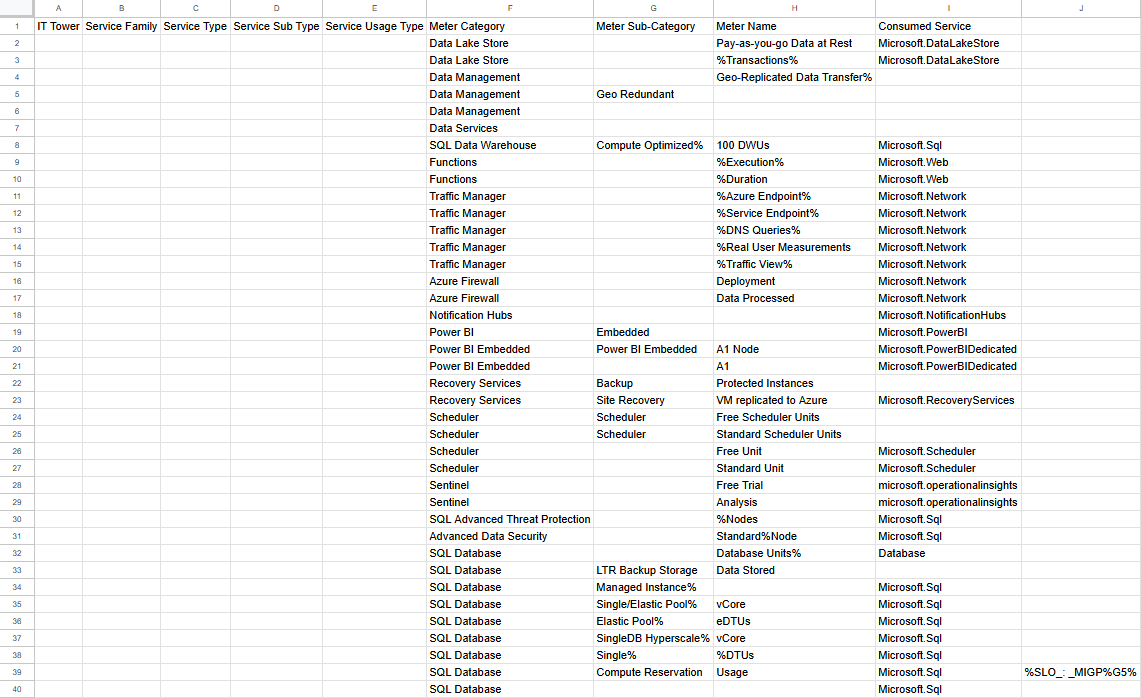
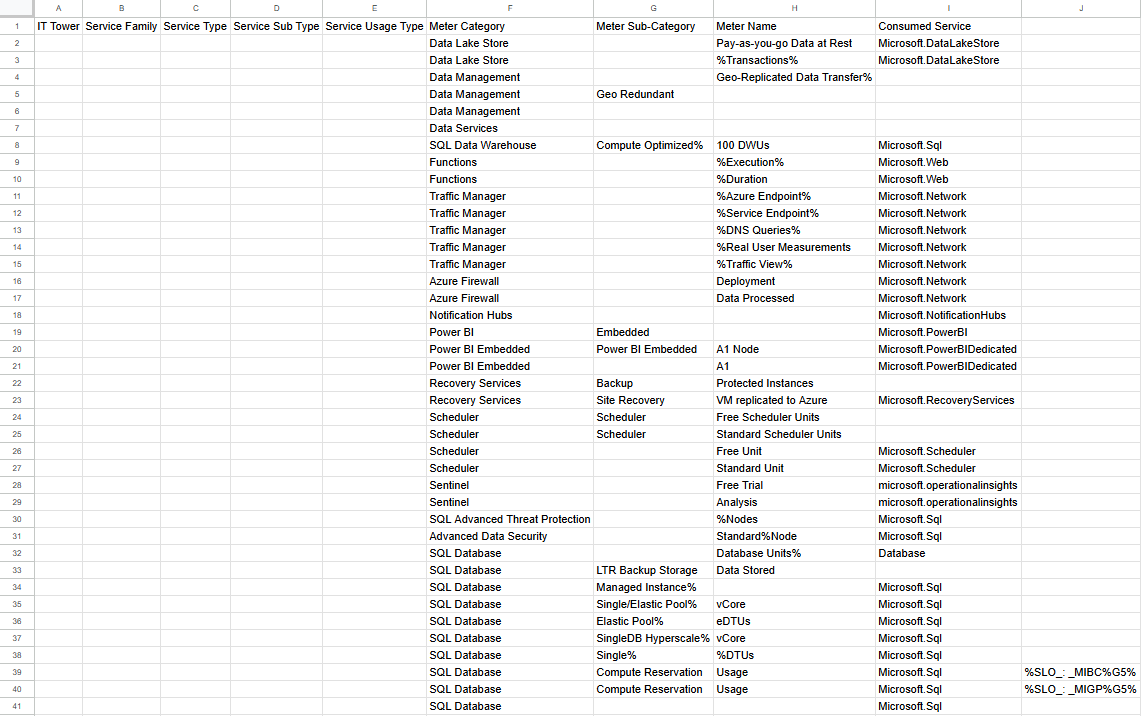
azure lab

diff --git a/reports/labazure/reportazure.md b/reports/labazure/reportazure.md
@@ -32,8 +32,6 @@
 
 ![img.png](img.png)
 
-39 и 40 строки подозрительно похожи - давайте их сразу удалим.
-
 Давайте опишем каждый сервис.
 
 1. **Azure Data Lake Store** - это хранилище данных, нужное, чтобы обрабатывать большие объемы данных в неструктурированном формате.
@@ -66,7 +64,7 @@
 
 15. **SQL Database** - это облачная платформа для хранения и управления БД.
 
-С помощью [документации](https://learn.microsoft.com/ru-ru/azure/?product=popular) (ладно, будем честны, что-то искали и на не особо авторитетных источниках) мы построили такую таблицу (заполнили ячейки):
+С помощью [документации](https://learn.microsoft.com/ru-ru/azure/?product=popular) (ладно, будем честны, что-то искали и на не особо авторитетных источниках) мы построили такую таблицу (заполнили ячейки) (НЕАКТУАЛЬНЫЙ СКРИН, просто правки не такие большие, я их сделал сразу в закрашенной таблице, этот скрин оставлю для видимости наличия процесса работы):
 
 ![img_2.png](img_2.png)
 
@@ -79,5 +77,3 @@
 ## Вывод
 
 Эта лаба, если честно, далась нам проще, чем по AWS. Наверное, мы уже лучше поняли, что и как нужно делать. Было интересно покопаться в интернетах и подумать :) Еще мы увидели аналогии с AWS.
-
-Еще мне стало интересно, что же такое ```%SLO_: _MIGP%G5%```. Ответ [здесь](https://www.boconline.co.uk/shop/en/uk/boc-mig-wire-sg2-d300-plw-15kg-10mm-90230) (спойлер: не связано с облаками).
